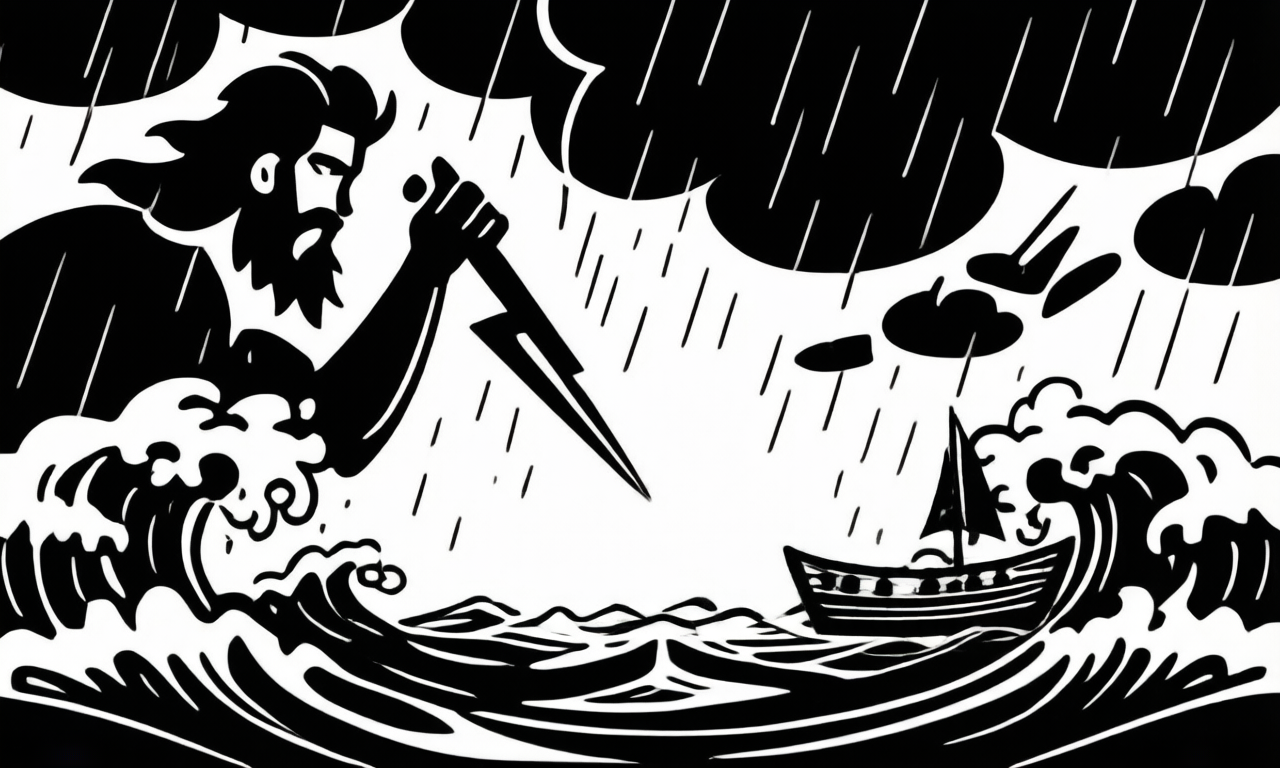
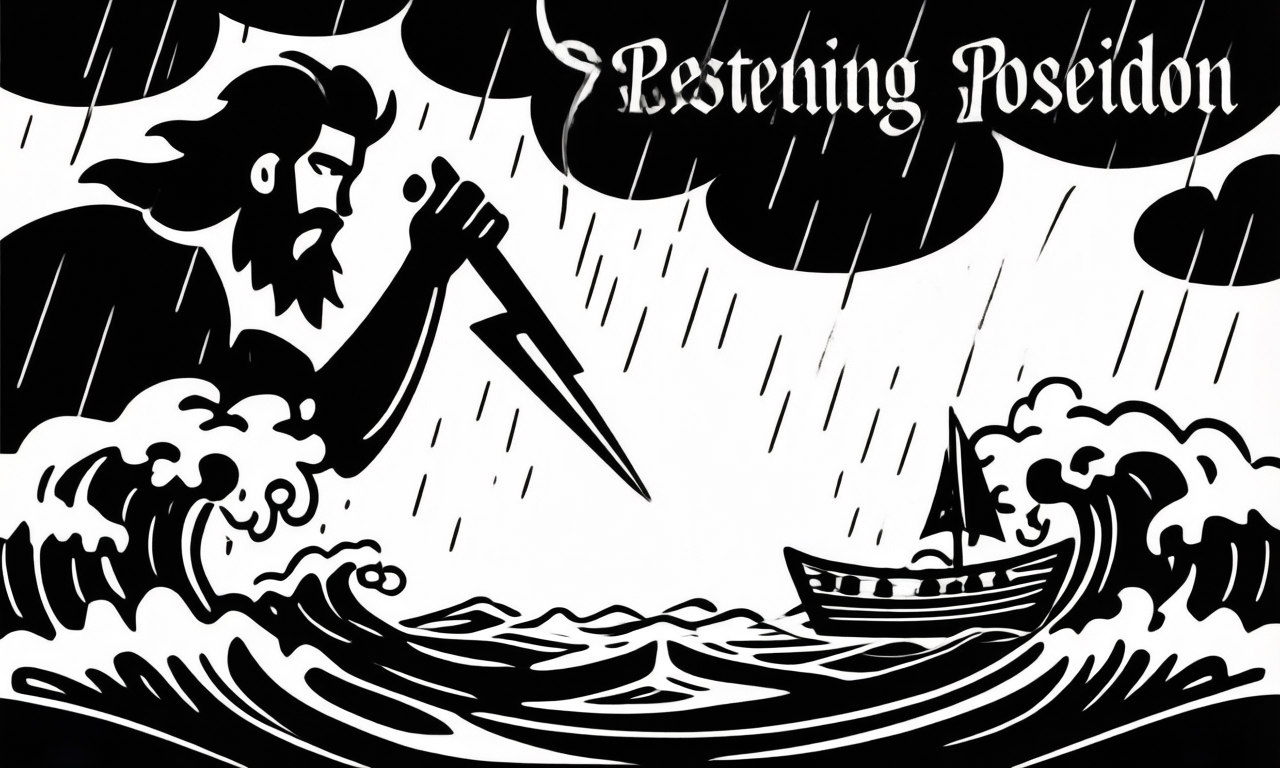
Add crank support to move the selection in every menu

diff --git a/source/scenes/Scenes.md b/source/scenes/Scenes.md
@@ -67,7 +67,7 @@ Start screen — the game's entry point (`main.lua` calls
 [playout](../libraries/playout.lua).
 
 - **Reached from:** app launch only.
-- **Controls:** Up/Down move the highlight (wraps); A or B confirms.
+- **Controls:** Up/Down (or the crank) move the highlight (wraps); A or B confirms.
 - **Menu items → transitions:**
   - "Play" → `GameSceneMain` (or `GameSceneDemo`, if `Config.DEMO_MODE` is on)
   - "Training" → `GameSceneTraining`
@@ -172,9 +172,9 @@ Reached only from `GameSceneTraining`'s system-menu item. Lists every entry in
 one.
 
 - **Reached from:** `GameSceneTraining` (system menu "Select Enemy").
-- **Controls:** Up/Down move the highlight (wraps, defaults to whatever
-  `GameSceneTraining.selectedEnemyType` currently is); A confirms and returns; B
-  cancels and returns without changing the selection.
+- **Controls:** Up/Down (or the crank) move the highlight (wraps, defaults to
+  whatever `GameSceneTraining.selectedEnemyType` currently is); A confirms and
+  returns; B cancels and returns without changing the selection.
 - **sceneProperties read:** none (reads `GameSceneTraining.selectedEnemyType`
   directly).
 - **Transitions out:** A or B → `Noble.transition(GameSceneTraining)` (A also
@@ -191,10 +191,11 @@ sandbox. Unlike `UpgradeSelectScene`, applying goes straight back to
 reopened repeatedly to stack several picks in a row.
 
 - **Reached from:** `GameSceneTraining` (system menu "Test Upgrade").
-- **Controls:** Up/Down move the highlight (wraps, always starts at the first
-  entry — there's no "current pick" to remember, unlike `EnemySelectScene`);
-  A applies the highlighted upgrade (via `Config.applyUpgrade`) and returns;
-  B cancels and returns without applying anything.
+- **Controls:** Up/Down (or the crank) move the highlight (wraps, always
+  starts at the first entry — there's no "current pick" to remember, unlike
+  `EnemySelectScene`); A applies the highlighted upgrade (via
+  `Config.applyUpgrade`) and returns; B cancels and returns without applying
+  anything.
 - **sceneProperties read:** none.
 - **Transitions out:** A or B → `Noble.transition(GameSceneTraining)` (A also
   calls `Config.applyUpgrade` first).
@@ -272,9 +273,9 @@ covering all of `Config.lua`:
 Built with [playout](../libraries/playout.lua).
 
 - **Reached from:** `TitleScene` ("Settings"); `TuningScene` (B).
-- **Controls:** Up/Down move the highlight (wraps); Left/Right cycle the
-  Song row or adjust the Volume row (a no-op on HUD/Tuning rows); A toggles
-  the highlighted HUD setting or activates the Tuning row (a no-op on
+- **Controls:** Up/Down (or the crank) move the highlight (wraps); Left/Right
+  cycle the Song row or adjust the Volume row (a no-op on HUD/Tuning rows); A
+  toggles the highlighted HUD setting or activates the Tuning row (a no-op on
   Sound rows); B returns to `TitleScene`.
 - **sceneProperties read:** none.
 
@@ -338,9 +339,9 @@ decides whether the run continues straight back into `self.gameScene` or
 detours through `WindShiftScene` first.
 
 - **Reached from:** `LevelCompleteScene`.
-- **Controls:** Up/Down move the highlight (`"select"` phase only); A
-  applies the highlighted upgrade (via `Config.applyUpgrade`) and swaps to
-  the result screen; a second A continues on.
+- **Controls:** Up/Down (or the crank) move the highlight (`"select"` phase
+  only); A applies the highlighted upgrade (via `Config.applyUpgrade`) and
+  swaps to the result screen; a second A continues on.
 - **sceneProperties read:** `level` (default 1), `completedLevel` (default
   `level - 1`), `totalDefeated` (default 0), `gameScene` (default
   `GameSceneMain`).